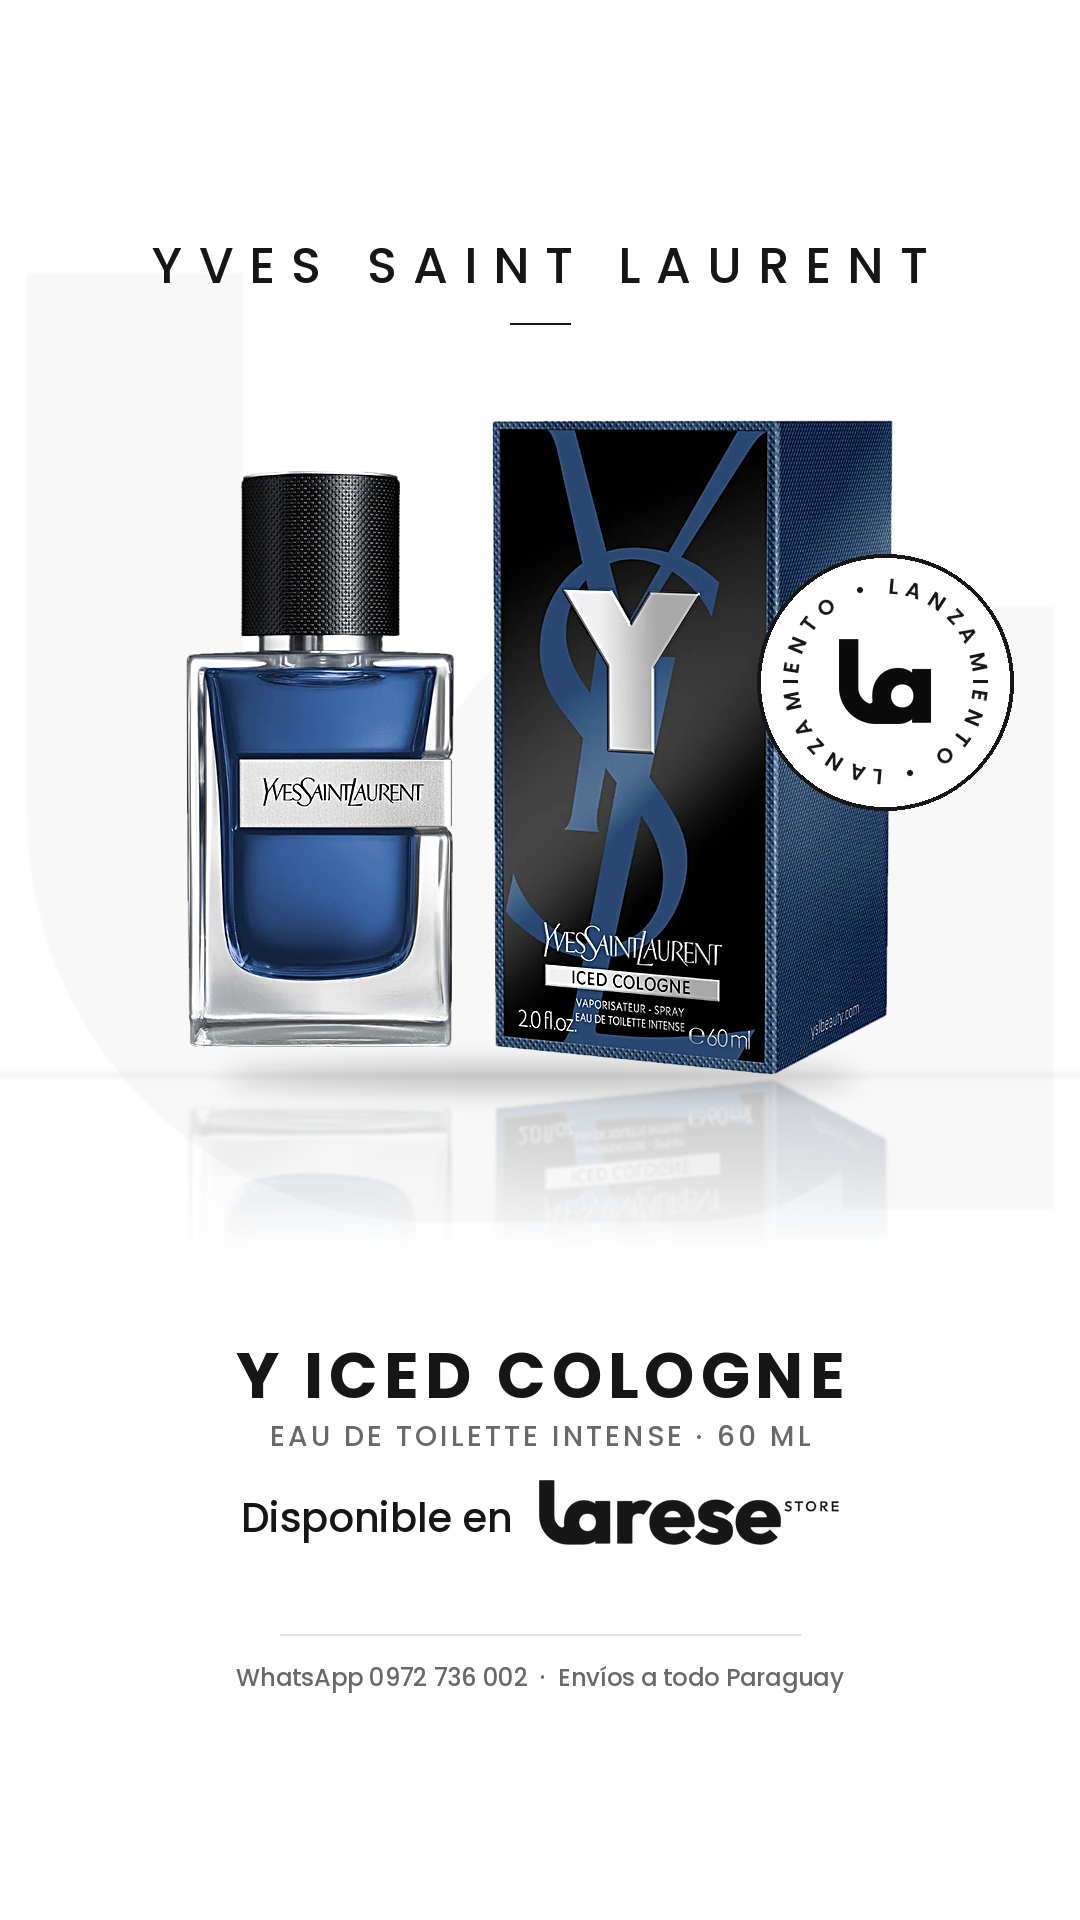
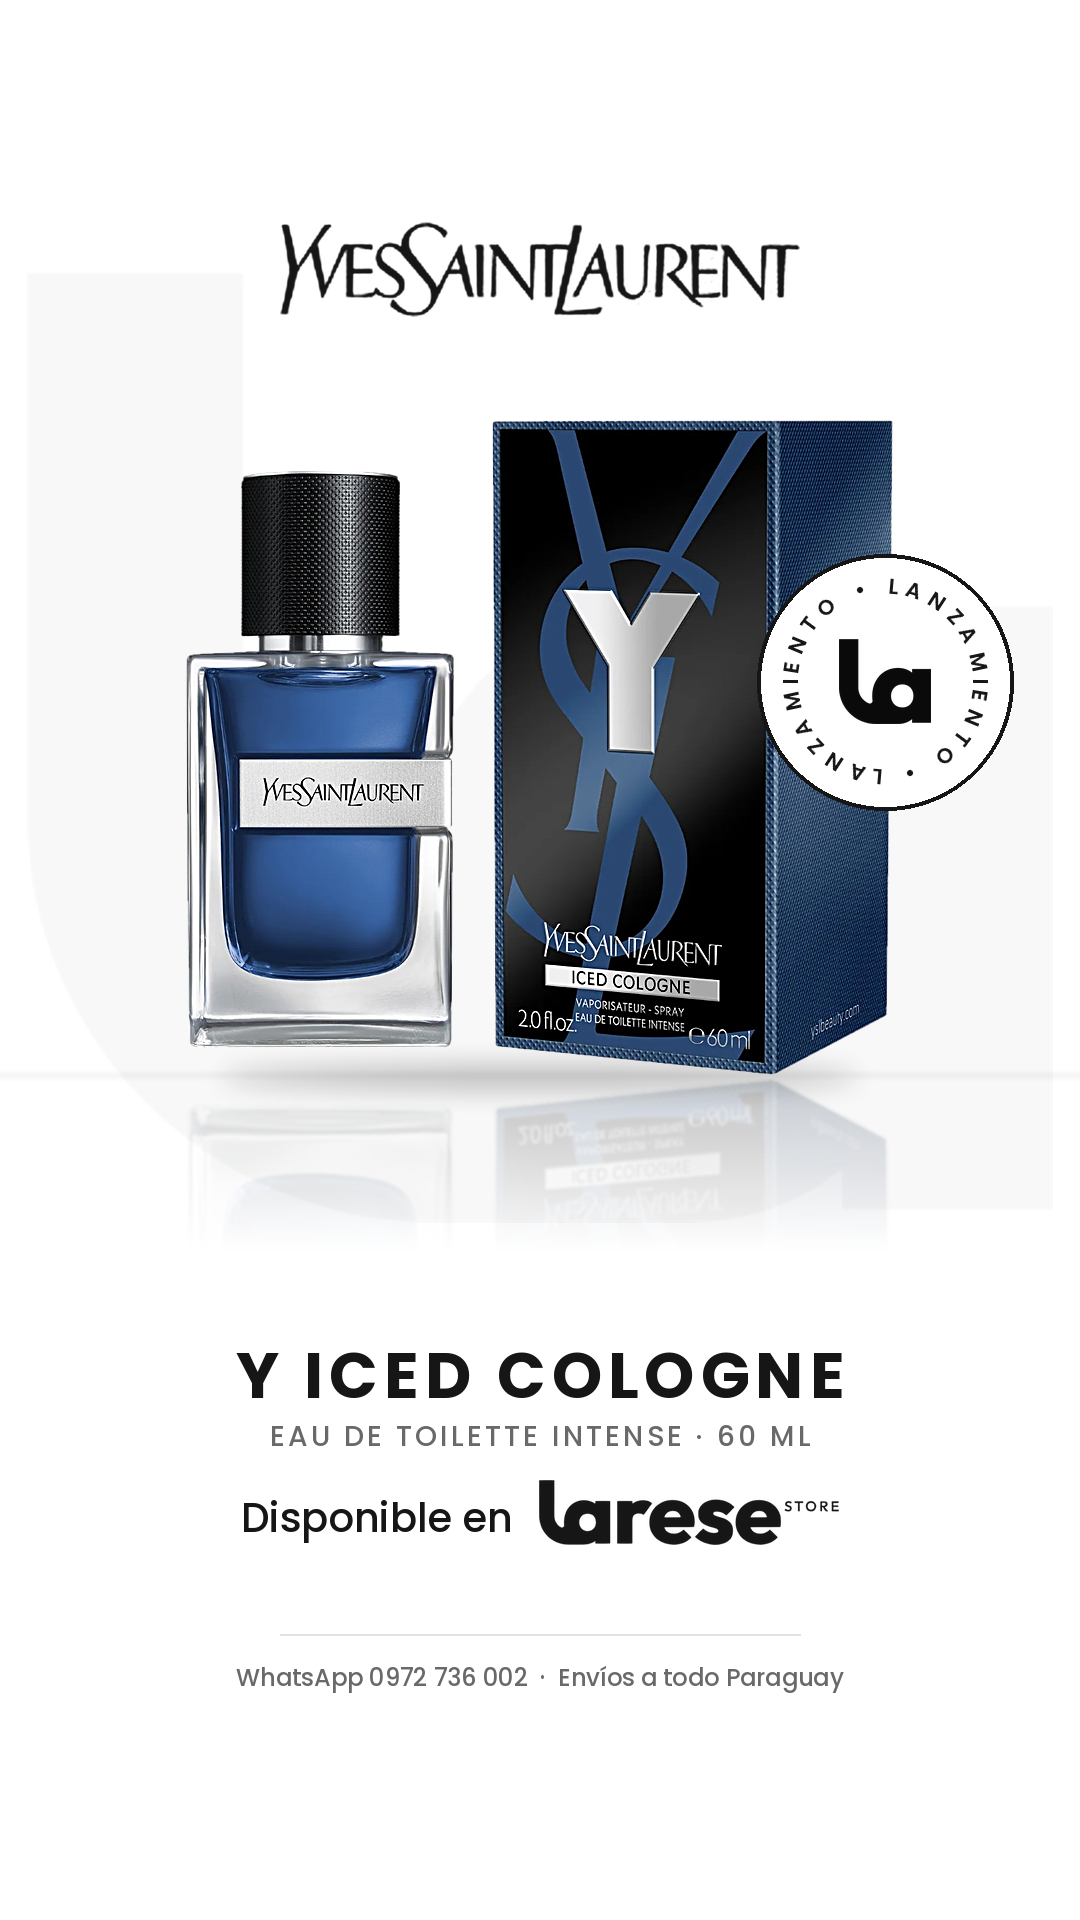
Use YSL wordmark (from product photo) in Iced Cologne launch header
Claude-Session: https://claude.ai/code/session_01DnzkNM84SMN5ZaBWUTMCqK

Changed region(s): [[0.1528, 0.125, 0.8556, 0.1875]]

diff --git a/lanzamiento-ysl-y/crear_lanzamiento.py b/lanzamiento-ysl-y/crear_lanzamiento.py
@@ -11,7 +11,8 @@ Uso:
 
 Spec (JSON):
 {
-  "marca": "YVES SAINT LAURENT",          # arriba, en texto (nunca el logo oficial)
+  "marca": "YVES SAINT LAURENT",          # arriba, en texto
+  "marca_logo": "logo-ysl-mascara.png",   # opcional: logo de la marca (máscara gris) en lugar del texto
   "nombre": "Y Iced Cologne",             # grande, abajo del frasco
   "detalle": "Eau de Toilette Intense · 60 ml",
   "imagen": "foto.jpg",                    # ideal: fondo blanco liso
@@ -124,12 +125,20 @@ def armar(SPEC, formato):
     img.alpha_composite(capa_color(banda.filter(ImageFilter.GaussianBlur(3)), (0, 0, 0), 0.10))
 
     # marca del perfume arriba (en texto, sin logo oficial)
-    fm = fuente(M["marca_t"], "Medium")
-    esp = M["marca_t"] * 0.32
-    txt(d, cx, M["marca_y"], SPEC["marca"], fm, TEXTO, esp=esp)
-    yl = M["marca_y"] + alto_linea(fm) + 22
-    lw = 60
-    d.line((cx - lw / 2, yl, cx + lw / 2, yl), fill=TEXTO, width=2)
+    if SPEC.get("marca_logo"):  # máscara en escala de grises del logo de la marca
+        ml = Image.open(SPEC["marca_logo"]).convert("L")
+        ancho = M["marca_t"] * 10.4
+        ml = ml.resize((int(ancho), int(ml.height * ancho / ml.width)), Image.LANCZOS)
+        img.alpha_composite(capa_color(ml, TEXTO), (int(cx - ml.width / 2), M["marca_y"] - 8))
+        yl = None  # con logo no va la rayita
+    else:
+        fm = fuente(M["marca_t"], "Medium")
+        esp = M["marca_t"] * 0.32
+        txt(d, cx, M["marca_y"], SPEC["marca"], fm, TEXTO, esp=esp)
+        yl = M["marca_y"] + alto_linea(fm) + 22
+    if yl is not None:
+        lw = 60
+        d.line((cx - lw / 2, yl, cx + lw / 2, yl), fill=TEXTO, width=2)
 
     # marca de agua "la" gigante detrás del frasco
     m = logo_mascara("monograma", w * 0.95)
@@ -188,7 +197,8 @@ if __name__ == "__main__":
     ruta_spec = os.path.abspath(sys.argv[1])
     with open(ruta_spec, encoding="utf-8") as fh:
         spec = json.load(fh)
-    if not os.path.isabs(spec["imagen"]):
-        spec["imagen"] = os.path.join(os.path.dirname(ruta_spec), spec["imagen"])
+    for k in ("imagen", "marca_logo"):
+        if spec.get(k) and not os.path.isabs(spec[k]):
+            spec[k] = os.path.join(os.path.dirname(ruta_spec), spec[k])
     armar(spec, sys.argv[2]).save(sys.argv[3], "PNG")
     print(sys.argv[3])
